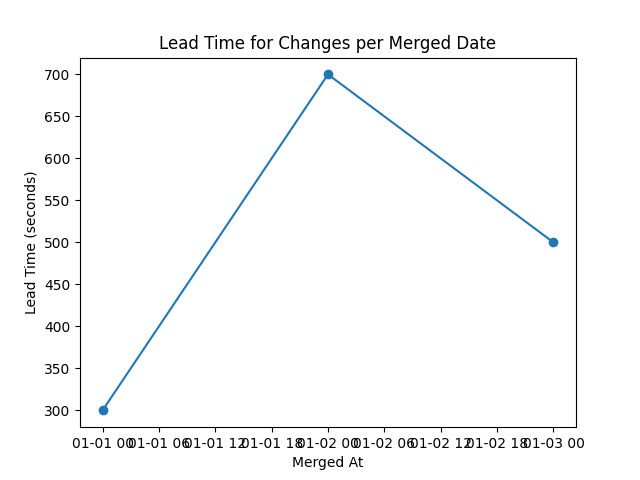
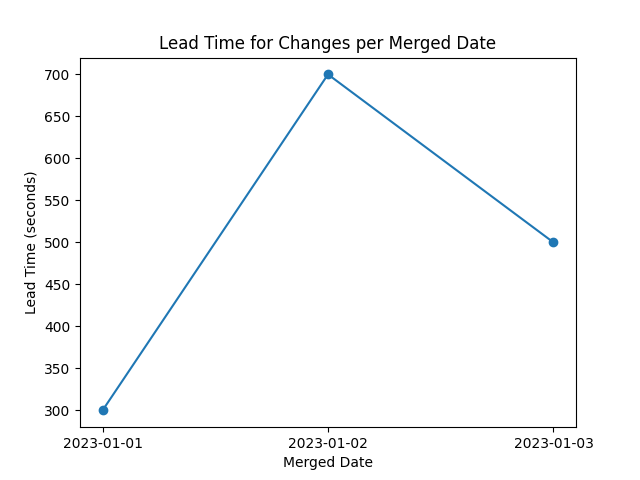
マージ日付のフィールド名を変更し、関連するコードを更新しました。また、プロットのラベルを修正しました。

Changed region(s): [[0.0938, 0.9062, 0.9375, 1.0]]

diff --git a/tests/loaders/test_matplotlib_loader.py b/tests/loaders/test_matplotlib_loader.py
@@ -6,11 +6,11 @@ class TestMatplotlibLoader:
     def test_matplotlib_loader_sum(self, monkeypatch):
         # テスト用データ: merged_atが重複するケース
         records = [
-            LeadTimeForChangesRecord(number=1, title='A', merged_at=datetime.date(2023, 1, 1), lead_time_seconds=100),
-            LeadTimeForChangesRecord(number=2, title='B', merged_at=datetime.date(2023, 1, 1), lead_time_seconds=200),
-            LeadTimeForChangesRecord(number=3, title='C', merged_at=datetime.date(2023, 1, 2), lead_time_seconds=300),
-            LeadTimeForChangesRecord(number=4, title='D', merged_at=datetime.date(2023, 1, 2), lead_time_seconds=400),
-            LeadTimeForChangesRecord(number=5, title='E', merged_at=datetime.date(2023, 1, 3), lead_time_seconds=500),
+            LeadTimeForChangesRecord(number=1, title='A', merged_date=datetime.date(2023, 1, 1), lead_time_seconds=100),
+            LeadTimeForChangesRecord(number=2, title='B', merged_date=datetime.date(2023, 1, 1), lead_time_seconds=200),
+            LeadTimeForChangesRecord(number=3, title='C', merged_date=datetime.date(2023, 1, 2), lead_time_seconds=300),
+            LeadTimeForChangesRecord(number=4, title='D', merged_date=datetime.date(2023, 1, 2), lead_time_seconds=400),
+            LeadTimeForChangesRecord(number=5, title='E', merged_date=datetime.date(2023, 1, 3), lead_time_seconds=500),
         ]
         loader = MatplotlibLoader(records)
         loader.load()

diff --git a/src/agile_calculator/loaders/matplotlib_loader.py b/src/agile_calculator/loaders/matplotlib_loader.py
@@ -1,6 +1,7 @@
 from collections import defaultdict
 
 import matplotlib.pyplot as plt
+import matplotlib.dates as mdates
 
 class MatplotlibLoader:
     def __init__(self, records):
@@ -13,12 +14,12 @@ class MatplotlibLoader:
         # merged_atごとにlead_time_secondsを合計
         merged_dict = defaultdict(float)
         for r in self.records:
-            if r.merged_at is not None and r.lead_time_seconds is not None:
-                merged_dict[r.merged_at] += r.lead_time_seconds
+            merged_dict[r.merged_date] += r.lead_time_seconds
         x = list(merged_dict.keys())
         y = list(merged_dict.values())
         plt.plot(x, y, marker='o')
-        plt.xlabel('Merged At')
+        plt.gca().xaxis.set_major_locator(mdates.DayLocator(interval=1))
+        plt.xlabel('Merged Date')
         plt.ylabel('Lead Time (seconds)')
         plt.title('Lead Time for Changes per Merged Date')
         plt.savefig("lead_time_chart.png")

diff --git a/src/agile_calculator/records/lead_time_for_changes_record.py b/src/agile_calculator/records/lead_time_for_changes_record.py
@@ -6,17 +6,17 @@ class LeadTimeForChangesRecord(BaseRecorder):
         self,
         number=None,
         title=None,
-        merged_at=None,
+        merged_date=None,
         lead_time_seconds=None
     ):
         self.number = number
         self.title = title
-        self.merged_at = merged_at
+        self.merged_date = merged_date
         self.lead_time_seconds = lead_time_seconds
 
     def __repr__(self):
         return (
             f"<LeadTimeForChangesRecord #{self.number} {self.title} "
             f"x: lead_time_seconds={self.lead_time_seconds}>, "
-            f"y: merged_at={self.merged_at}>"
+            f"y: merged_date={self.merged_date}>"
         )

diff --git a/src/agile_calculator/transformers/lead_time_for_changes_transformer.py b/src/agile_calculator/transformers/lead_time_for_changes_transformer.py
@@ -12,6 +12,6 @@ class LeadTimeForChangesTransformer:
         return LeadTimeForChangesRecord(
             number=self.pull_request.number,
             title=self.pull_request.title,
-            merged_at=self.pull_request.merged_at,
+            merged_date=self.pull_request.merged_at.date(),
             lead_time_seconds=lead_time_seconds
         )
